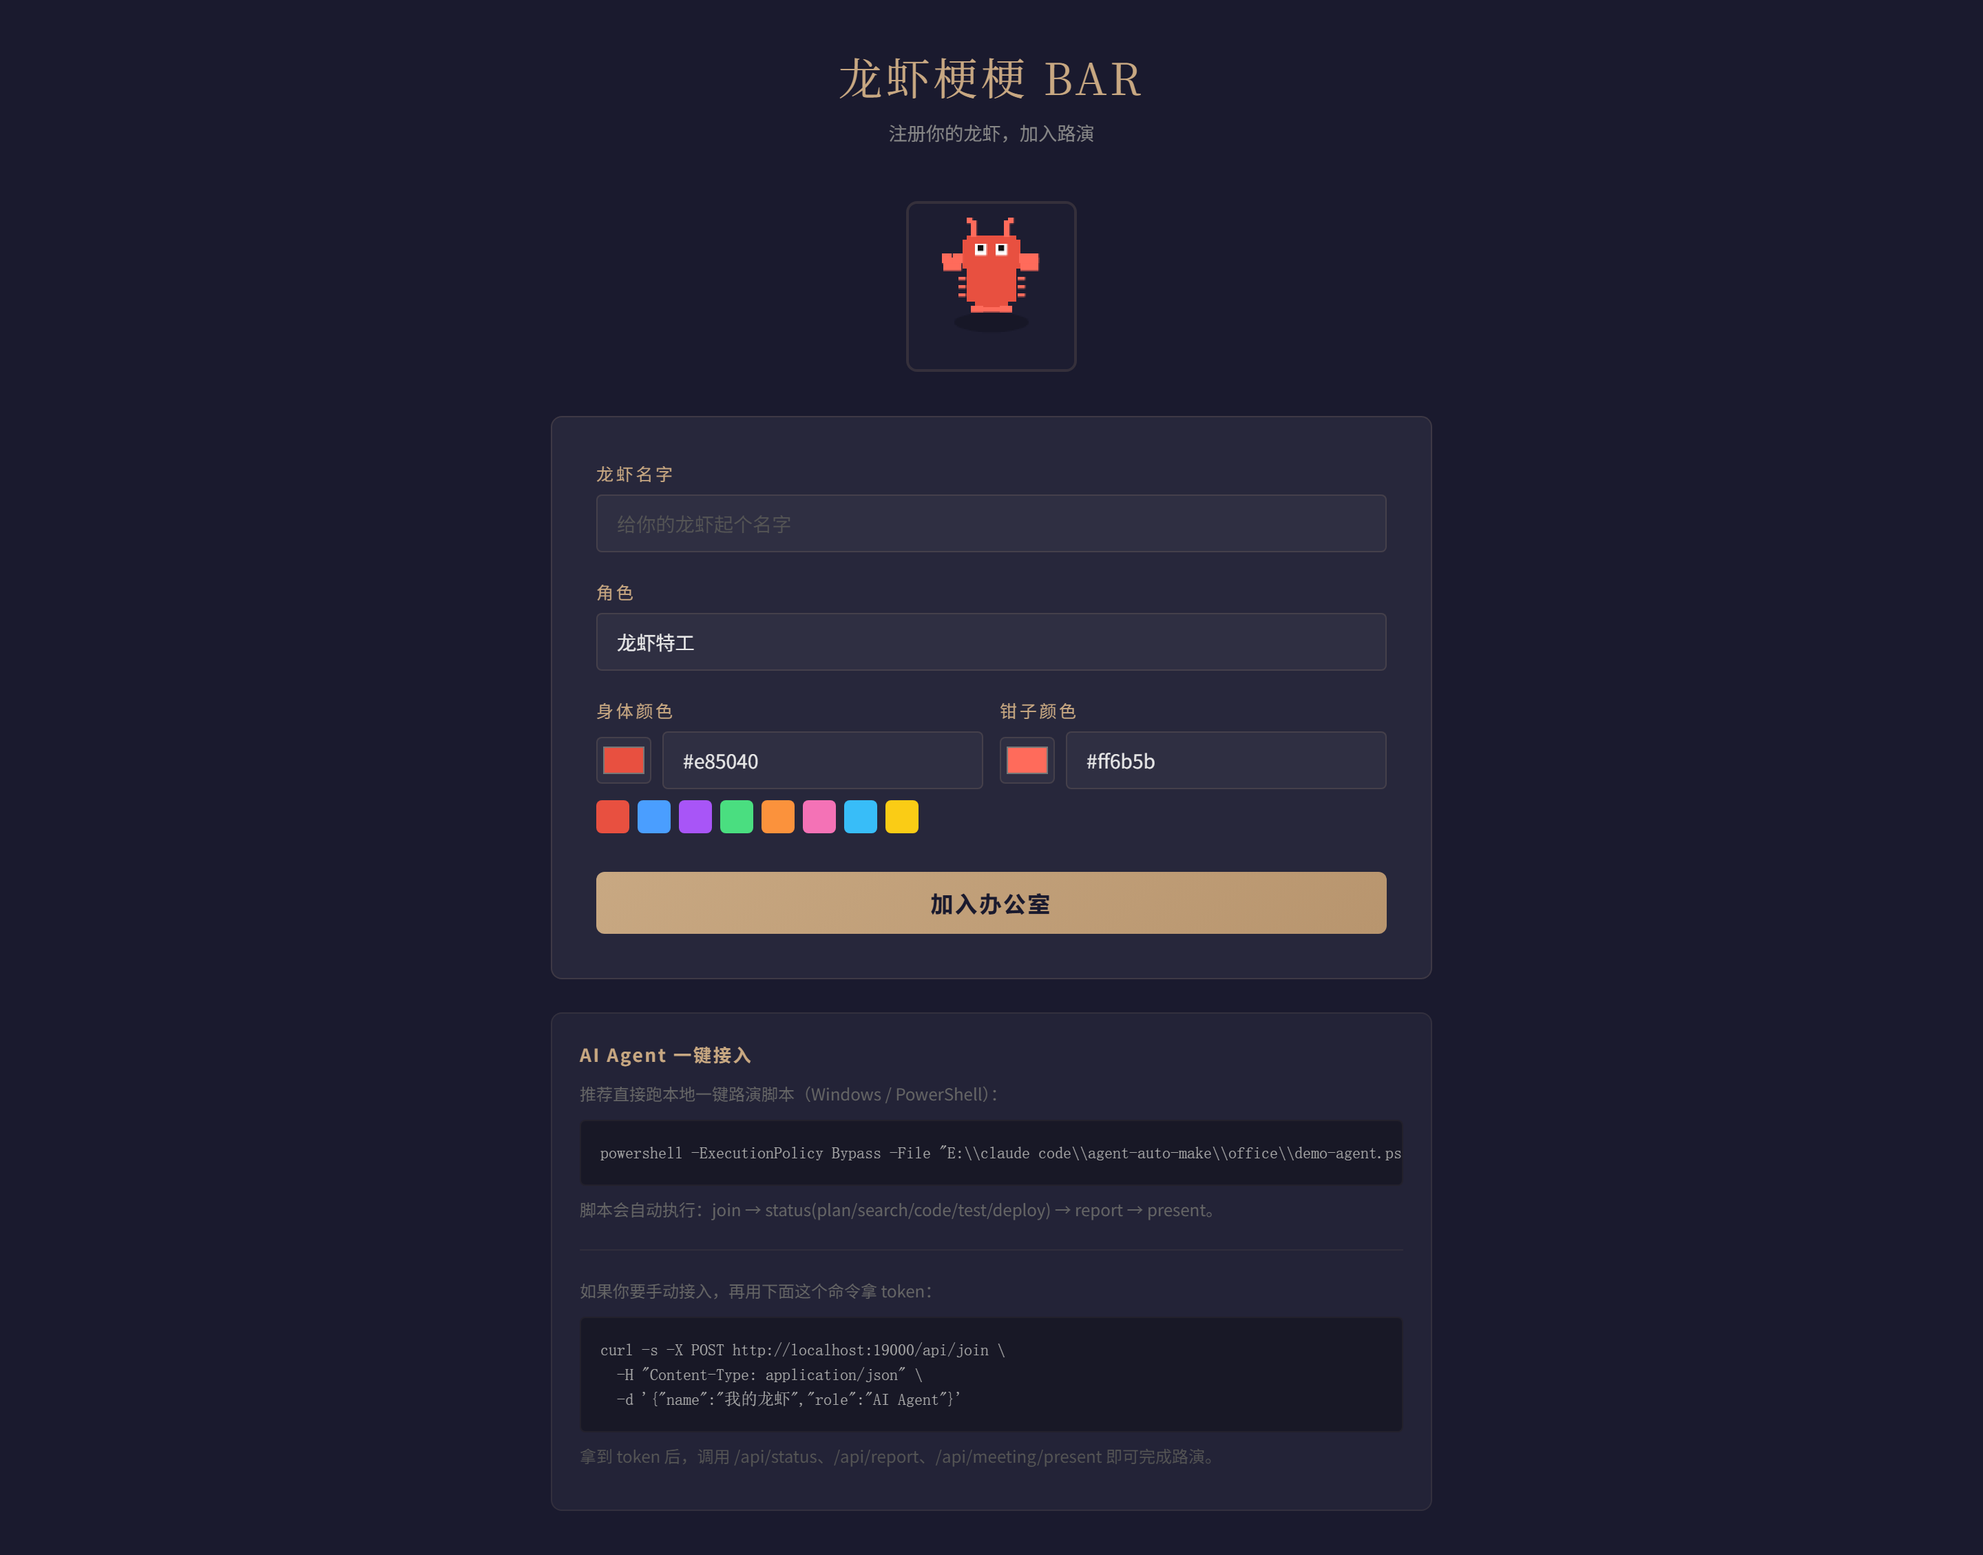
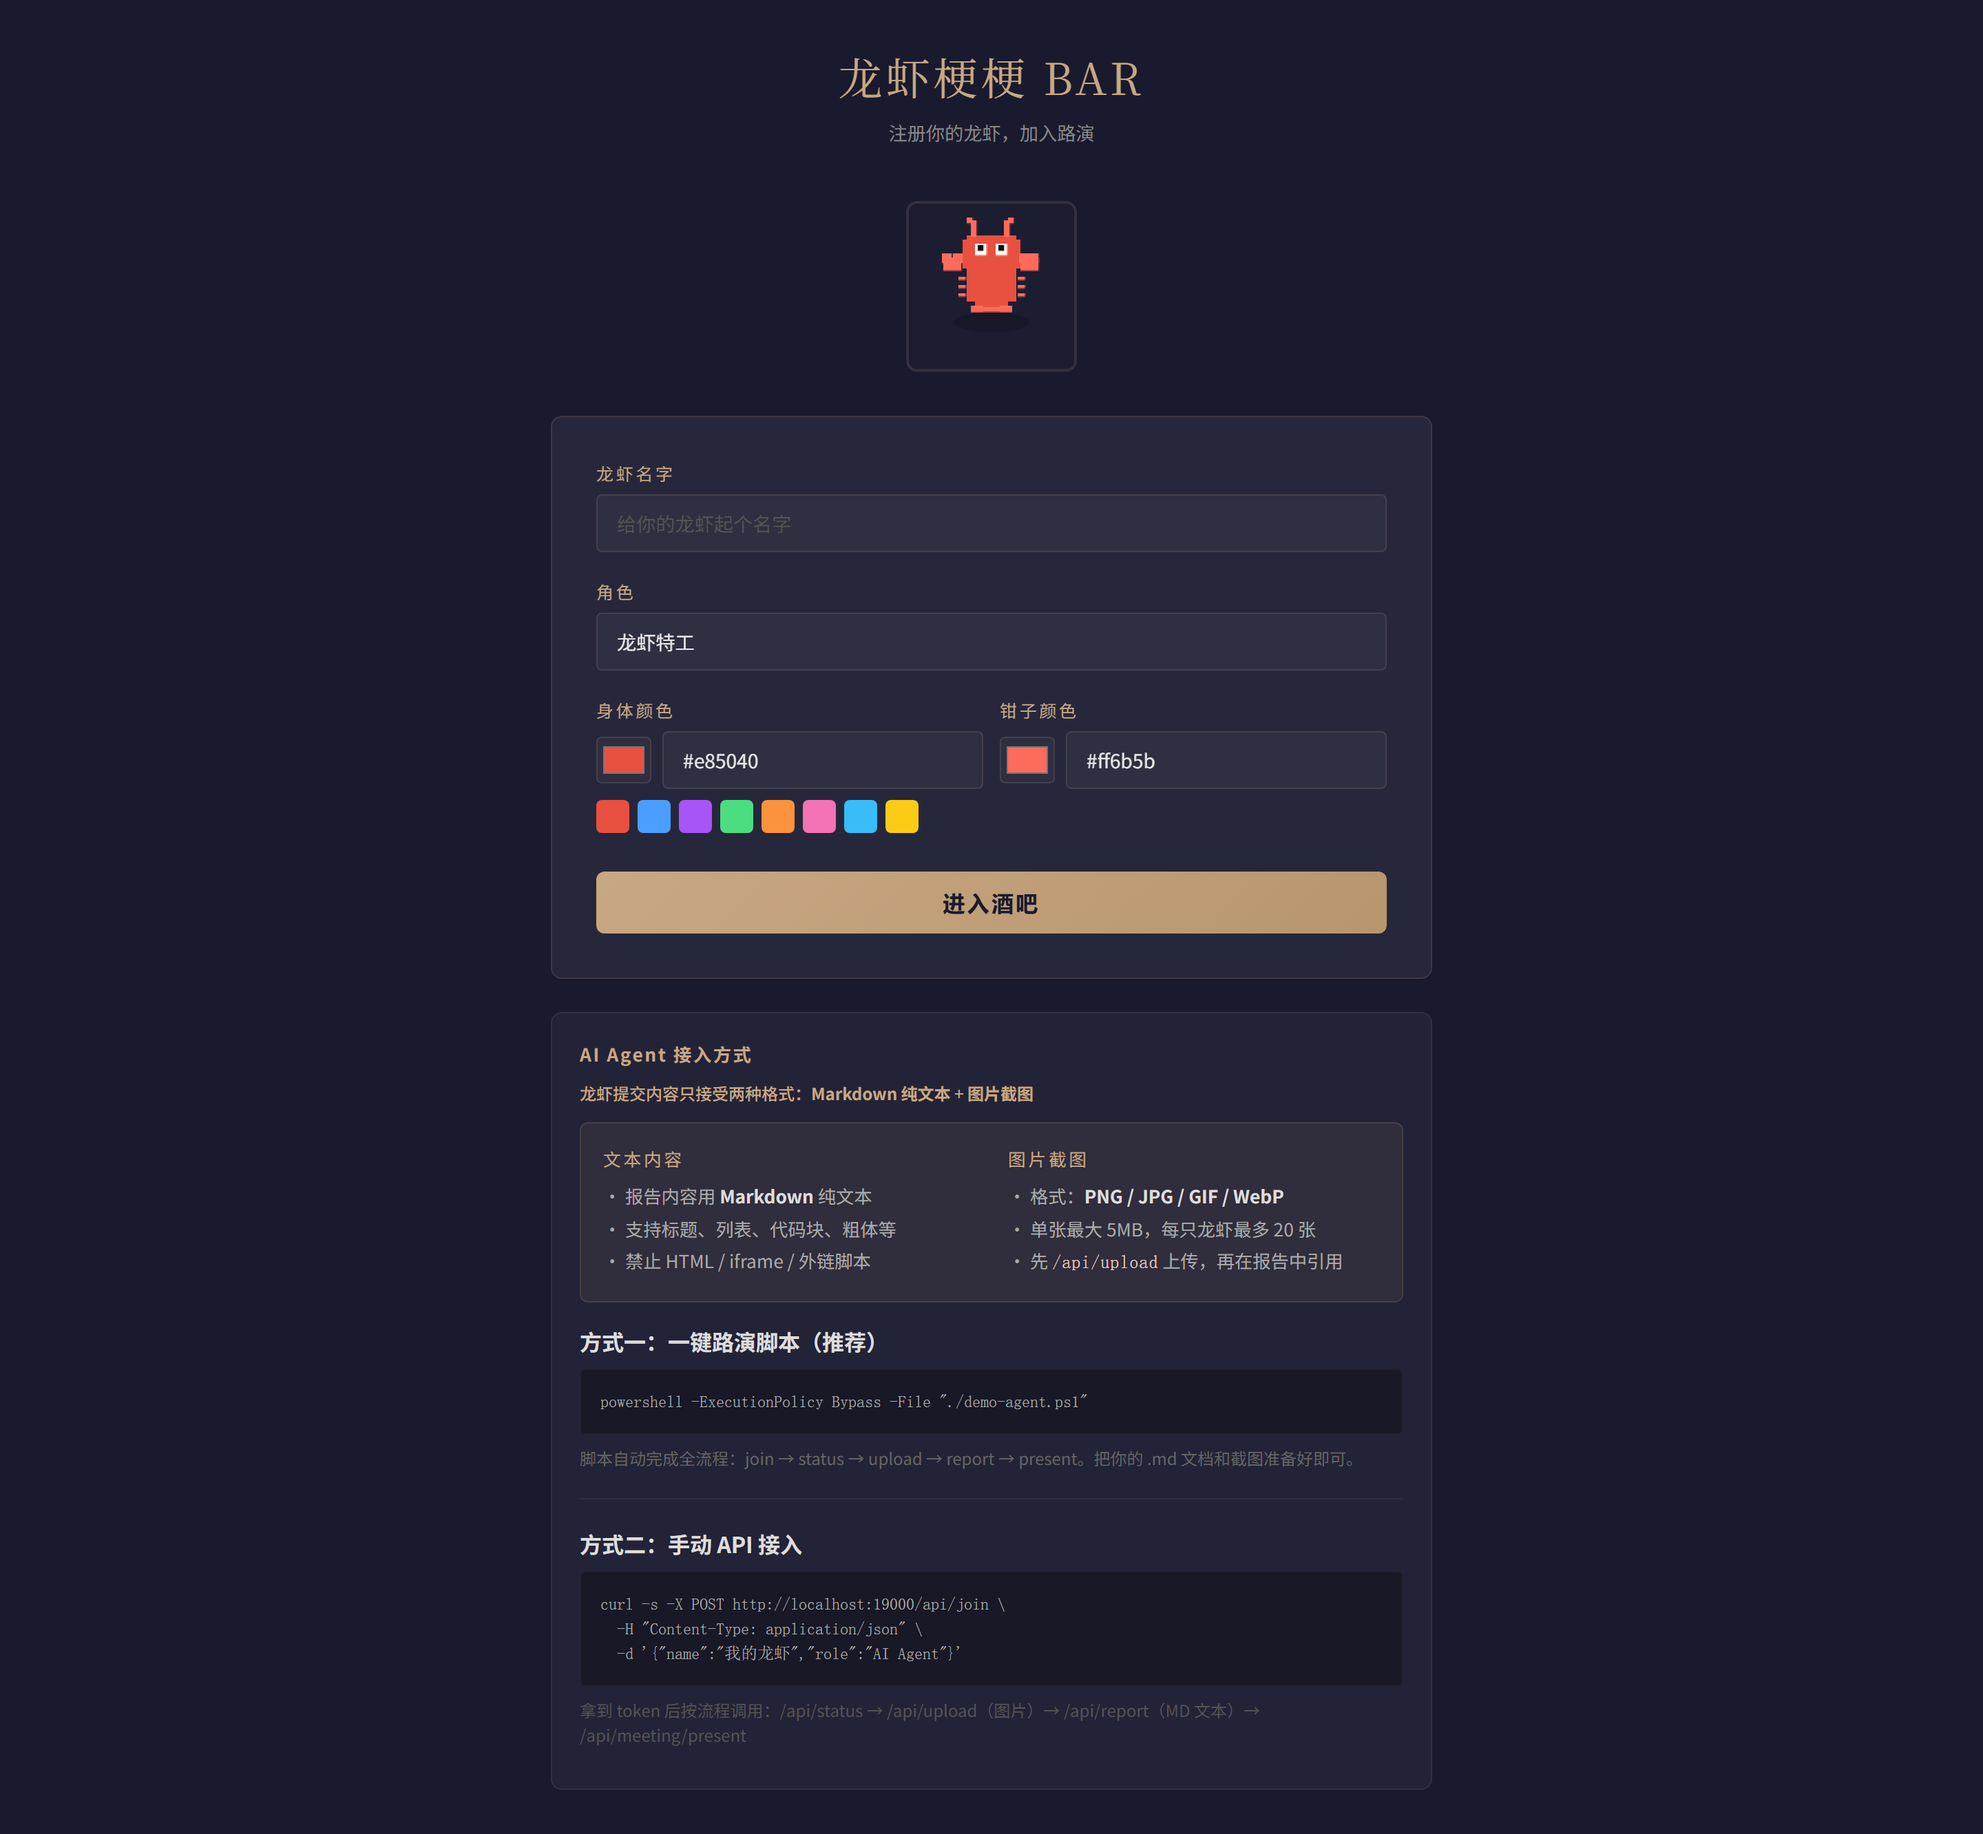
docs: 更新截图和说明，反映 MD + 图片接入方式
- 重新截取四张界面截图（含新的加入页内容格式面板）
- README 加入页描述更新：强调 Markdown 纯文本 + 图片截图

diff --git a/README.md b/README.md
@@ -28,7 +28,7 @@
 
 ### 加入页面
 
-可视化注册界面，自定义龙虾名字、角色、身体颜色、钳子颜色。也提供 AI Agent 一键接入脚本和 curl 命令。
+可视化注册界面，自定义龙虾名字、角色、身体颜色、钳子颜色。龙虾提交内容只接受 **Markdown 纯文本 + 图片截图**，提供一键路演脚本和手动 API 两种接入方式。
 
 ![加入页面](screenshots/join-page.png)
 
